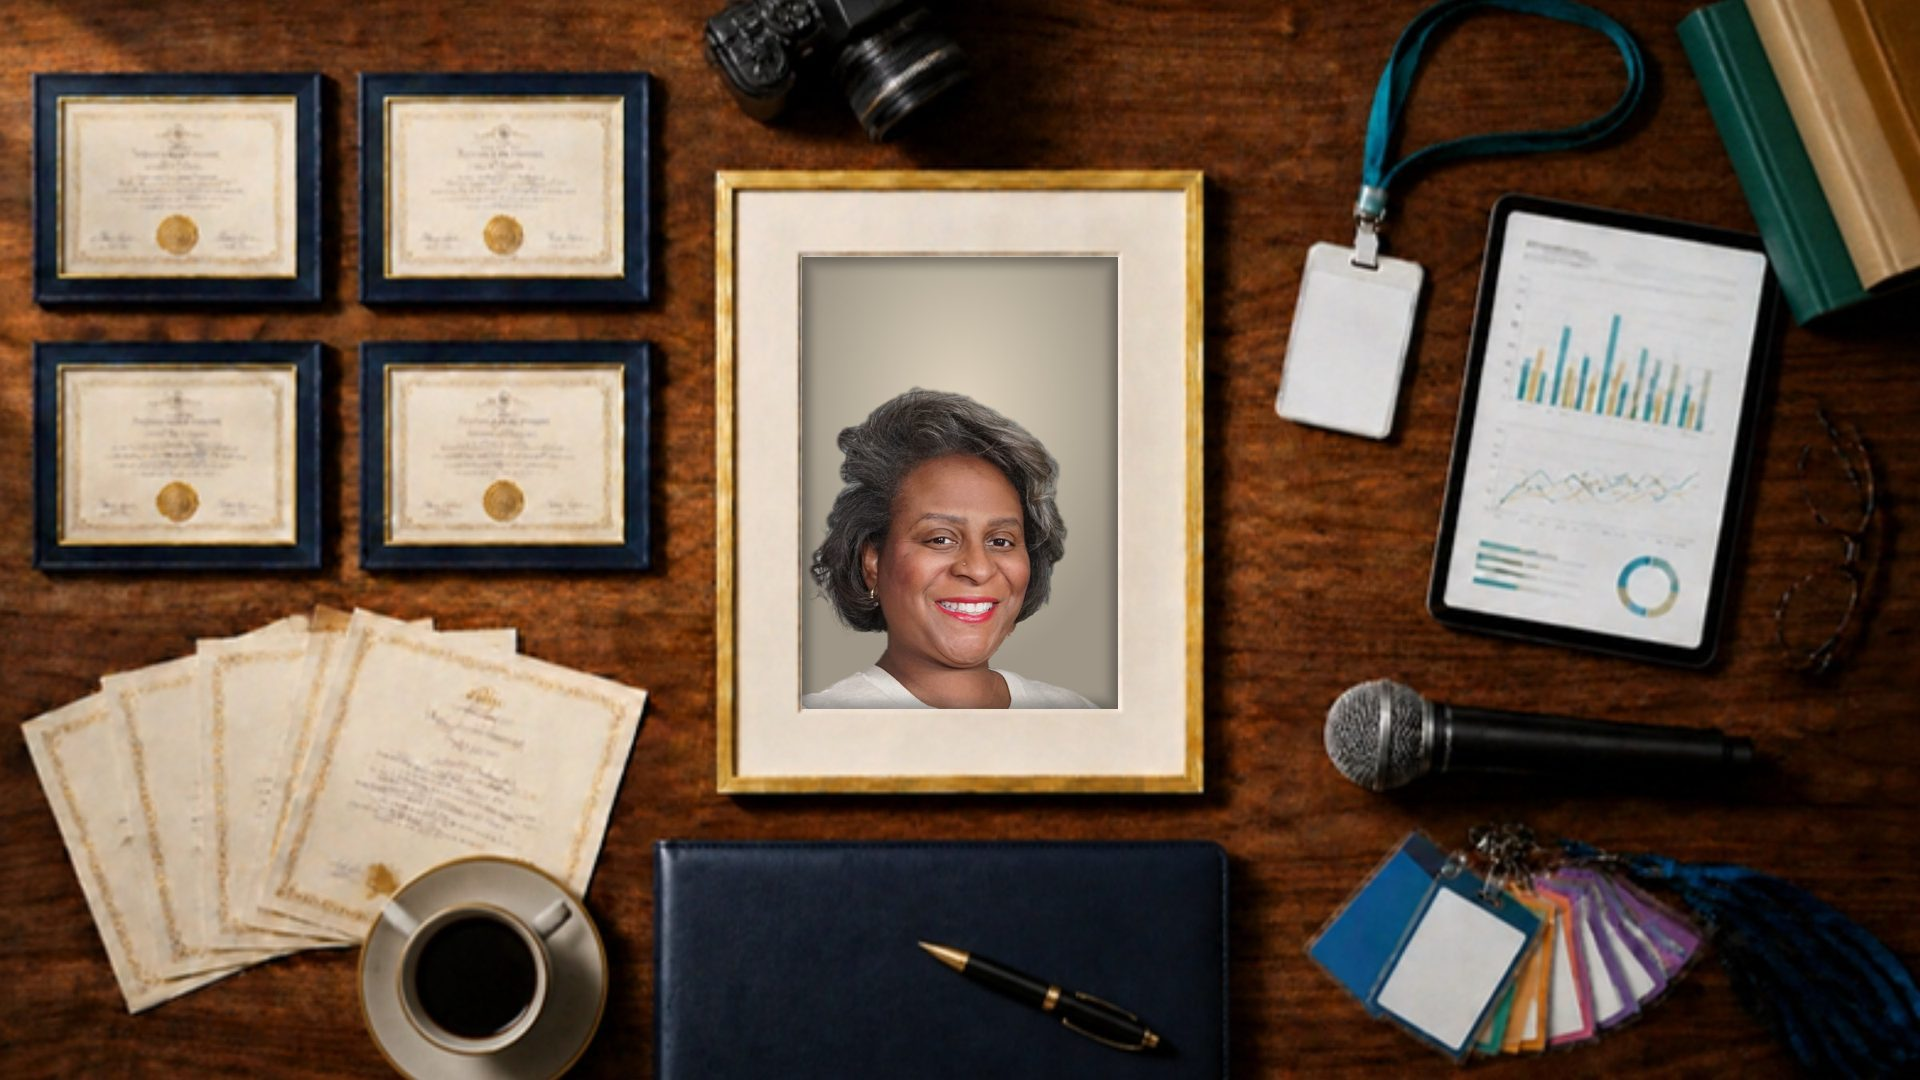
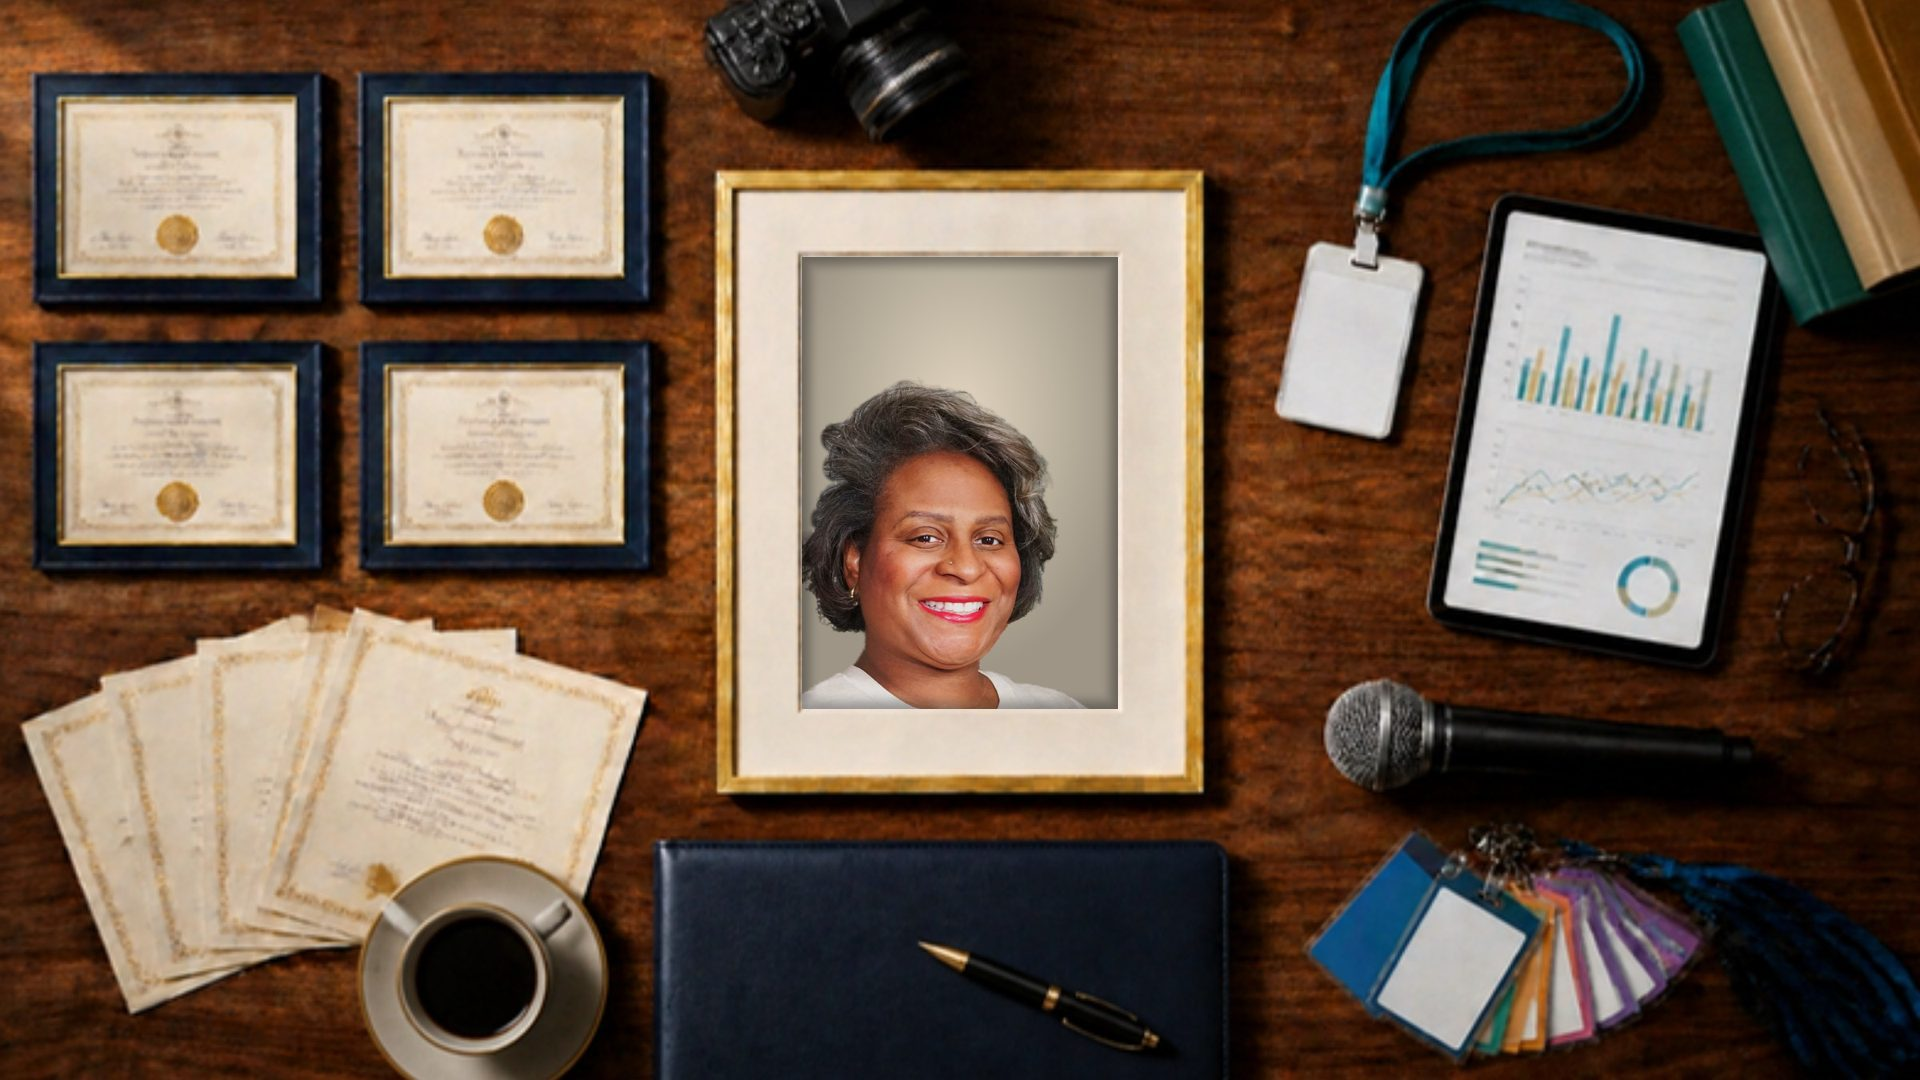
TJ's retouched portrait and an About page showroom
- Big-smile portrait replaced with TJ's 11/22 retouch everywhere it
  appears: homepage hero frame, desk photos, and the About page
- About header becomes a showroom: light lines draw in, a spotlight and
  fog come up, and she stands on a glowing platform; the room relights
  for each role with its own facts, cycling on its own
- About page arch now uses DSC00378 so the same photo does not repeat

Claude-Session: https://claude.ai/code/session_01LNYcPZJEaV3DAgXppiUXw4

Changed region(s): [[0.4062, 0.3361, 0.5625, 0.6722]]

diff --git a/assets/showroom.css b/assets/showroom.css
@@ -1,0 +1,59 @@
+/* About page showroom: she stands on a lit platform in a dark room; each role relights the room */
+.showroom { --glow: 47, 160, 156; position: relative; background: radial-gradient(120% 90% at 70% 40%, #1B2140 0%, #0E1124 55%, #080A16 100%); color: #EDE6D8; overflow: hidden; padding: clamp(28px, 4vw, 56px) 0 clamp(36px, 5vw, 64px); transition: --glow 1s; }
+.showroom[data-role="1"] { --glow: 214, 177, 112; }
+.showroom[data-role="2"] { --glow: 160, 190, 235; }
+.showroom[data-role="3"] { --glow: 214, 132, 140; }
+.sr-grid { display: grid; grid-template-columns: minmax(300px, 430px) 1fr; gap: clamp(24px, 4vw, 64px); align-items: center; }
+.sr-copy { position: relative; z-index: 2; }
+.showroom .script-eyebrow { color: var(--gold-soft, #CDB083); }
+.sr-title { font-family: var(--serif); font-weight: 600; font-size: clamp(44px, 5.6vw, 84px); line-height: .95; color: #FBF7EF; margin: 0; letter-spacing: -.01em; }
+.sr-lead { font-family: var(--serif); font-size: clamp(19px, 1.6vw, 23px); line-height: 1.36; color: #D9D1C2; margin: 18px 0 26px; max-width: 32ch; }
+.sr-tabs { display: flex; flex-wrap: wrap; gap: 6px; border-bottom: 1px solid rgba(237, 230, 216, .16); }
+.sr-tabs button { position: relative; background: none; border: 0; color: #A9A396; font: 600 15px/1 var(--sans, 'Source Sans 3', sans-serif); letter-spacing: .04em; padding: 12px 12px 14px; min-height: 44px; cursor: pointer; transition: color .3s; }
+.sr-tabs button::after { content: ""; position: absolute; left: 12px; right: 12px; bottom: -1px; height: 2px; background: rgb(var(--glow)); transform: scaleX(0); transition: transform .5s cubic-bezier(.2, .8, .2, 1); }
+.sr-tabs button[aria-selected="true"] { color: #FBF7EF; }
+.sr-tabs button[aria-selected="true"]::after { transform: scaleX(1); }
+.sr-tabs button:hover { color: #FBF7EF; }
+.sr-tabs button .sr-timer { position: absolute; left: 12px; bottom: -1px; height: 2px; width: 0; background: rgba(var(--glow), .45); }
+.sr-specs { position: relative; min-height: 220px; margin-top: 22px; }
+.sr-spec { position: absolute; inset: 0 0 auto 0; opacity: 0; transform: translateY(12px); transition: opacity .5s, transform .5s; pointer-events: none; }
+.sr-spec.is-on { opacity: 1; transform: none; pointer-events: auto; }
+.sr-name { font-family: var(--serif); font-style: italic; font-size: 22px; color: rgb(var(--glow)); margin: 0 0 12px; }
+.sr-spec dl { display: grid; grid-template-columns: repeat(3, 1fr); gap: 16px; margin: 0; }
+.sr-spec dl div { border-left: 1px solid rgba(var(--glow), .5); padding-left: 12px; }
+.sr-spec dt { font-family: var(--serif); font-weight: 600; font-size: clamp(26px, 2.4vw, 34px); line-height: 1; color: #FBF7EF; }
+.sr-spec dd { margin: 6px 0 0; font-size: 14.5px; line-height: 1.35; color: #BDB6A8; }
+.sr-go { display: inline-flex; align-items: center; gap: 8px; margin-top: 22px; min-height: 44px; color: #FBF7EF; font-weight: 600; text-decoration: none; border-bottom: 1px solid rgb(var(--glow)); }
+.sr-go:hover { color: rgb(var(--glow)); }
+
+/* The stage */
+.sr-stage { position: relative; aspect-ratio: 5 / 4; width: 112%; max-height: 80vh; justify-self: center; margin-right: -6%; }
+.sr-lines { position: absolute; inset: 0; width: 100%; height: 100%; overflow: visible; }
+.sr-lines path { fill: none; stroke: rgba(var(--glow), .9); stroke-width: 1.4; vector-effect: non-scaling-stroke; filter: drop-shadow(0 0 6px rgba(var(--glow), .9)); stroke-dasharray: 1400; stroke-dashoffset: 1400; transition: stroke .8s; }
+.showroom.lit .sr-lines path { animation: sr-draw 2.4s cubic-bezier(.6, .05, .3, 1) forwards; }
+.showroom.lit .sr-lines path:nth-child(2) { animation-delay: .25s; } .showroom.lit .sr-lines path:nth-child(3), .showroom.lit .sr-lines path:nth-child(4) { animation-delay: .6s; } .showroom.lit .sr-lines path:nth-child(5) { animation-delay: .8s; } .showroom.lit .sr-lines path:nth-child(6) { animation-delay: .4s; }
+@keyframes sr-draw { to { stroke-dashoffset: 0; } }
+.sr-cone { position: absolute; left: 50%; top: 4%; width: 70%; height: 92%; transform: translateX(-50%); background: conic-gradient(from 160deg at 50% 0%, transparent 0deg, rgba(var(--glow), .16) 14deg, rgba(255, 255, 255, .1) 20deg, rgba(var(--glow), .16) 26deg, transparent 40deg); filter: blur(10px); opacity: 0; transition: opacity 1.4s .9s; mix-blend-mode: screen; }
+.showroom.lit .sr-cone { opacity: 1; }
+.sr-ring { position: absolute; left: 50%; bottom: 13%; width: 58%; height: 11%; transform: translateX(-50%); border-radius: 50%; background: radial-gradient(closest-side, rgba(var(--glow), .35), rgba(var(--glow), .08) 70%, transparent); box-shadow: 0 0 0 2px rgba(var(--glow), .75), 0 0 40px 6px rgba(var(--glow), .45), inset 0 0 30px rgba(var(--glow), .5); opacity: 0; transition: opacity 1s 1.2s, box-shadow .8s; }
+.showroom.lit .sr-ring { opacity: 1; }
+.sr-person { position: absolute; left: 50%; bottom: 15%; width: 54%; transform: translate(-50%, 18px); filter: brightness(.25) drop-shadow(0 0 0 rgba(0, 0, 0, 0)); opacity: 0; transition: transform 1.6s cubic-bezier(.2, .8, .2, 1) .9s, opacity 1.2s .9s, filter 1.4s 1s; z-index: 2; }
+.showroom.lit .sr-person { opacity: 1; transform: translate(-50%, 0); filter: brightness(1) drop-shadow(-3px -2px 10px rgba(var(--glow), .55)) drop-shadow(4px 0 14px rgba(var(--glow), .35)); }
+.sr-reflect { position: absolute; left: 50%; bottom: 18.5%; width: 54%; transform: translate(-50%, 100%) scaleY(-1); transform-origin: 50% 0; opacity: 0; filter: blur(3px) brightness(.6); -webkit-mask-image: linear-gradient(to top, rgba(0, 0, 0, .35), transparent 30%); mask-image: linear-gradient(to top, rgba(0, 0, 0, .35), transparent 30%); transition: opacity 1.2s 1.4s; }
+.showroom.lit .sr-reflect { opacity: .5; }
+.sr-fog { position: absolute; left: -10%; right: -10%; bottom: 8%; height: 26%; background: radial-gradient(50% 60% at 50% 60%, rgba(var(--glow), .18), transparent 70%), radial-gradient(40% 50% at 25% 70%, rgba(230, 230, 240, .12), transparent 70%), radial-gradient(40% 50% at 78% 65%, rgba(230, 230, 240, .1), transparent 70%); filter: blur(18px); z-index: 3; pointer-events: none; animation: sr-drift 14s ease-in-out infinite alternate; }
+.sr-fog.f2 { bottom: 2%; animation-duration: 19s; animation-direction: alternate-reverse; opacity: .8; }
+@keyframes sr-drift { from { transform: translateX(-4%); } to { transform: translateX(4%); } }
+.sr-floorfog { display: none; }
+
+@media (max-width: 900px) {
+  .sr-grid { grid-template-columns: 1fr; }
+  .sr-stage { order: -1; max-height: 52vh; aspect-ratio: 4 / 3.6; width: 100%; margin-right: 0; }
+  .sr-spec dl { grid-template-columns: 1fr 1fr 1fr; gap: 10px; }
+  .sr-specs { min-height: 250px; }
+}
+@media (prefers-reduced-motion: reduce) {
+  .showroom .sr-lines path { stroke-dashoffset: 0; animation: none !important; }
+  .showroom .sr-cone, .showroom .sr-ring, .showroom .sr-person, .showroom .sr-reflect { transition: none; }
+  .sr-fog { animation: none; }
+}

diff --git a/about.html b/about.html
@@ -23,6 +23,7 @@
 <link rel="stylesheet" href="assets/craft.css">
 <link rel="stylesheet" href="assets/studio3d.css">
 <link rel="stylesheet" href="assets/finish.css">
+<link rel="stylesheet" href="assets/showroom.css">
 <script type="application/ld+json">
 {
  "@context": "https://schema.org",
@@ -180,15 +181,55 @@
   </div>
 </header>
 <main id="main">
-<section class="p-hero">
-  <div class="wrap p-hero-grid">
-    <div>
+<section class="showroom" data-showroom aria-label="Dr. Alimayu, four ways to work with her">
+  <div class="wrap sr-grid">
+    <div class="sr-copy">
       <p class="script-eyebrow">Formerly Allison Stephens</p>
-      <h1 class="deboss">About Dr. Alimayu</h1>
-      <p class="lead-serif">The futures of children and families are decided in budgets, boardrooms, and evidence reviews. She has worked in all three for more than twenty-five years.</p>
-      
+      <h1 class="sr-title">About Dr. Alimayu</h1>
+      <p class="sr-lead">The futures of children and families are decided in budgets, boardrooms, and evidence reviews. She has worked in all three for more than twenty-five years.</p>
+      <div class="sr-tabs" role="tablist" aria-label="Choose a role">
+        <button type="button" role="tab" data-role="0" aria-selected="true">Speaker</button>
+        <button type="button" role="tab" data-role="1" aria-selected="false">Board director</button>
+        <button type="button" role="tab" data-role="2" aria-selected="false">Researcher</button>
+        <button type="button" role="tab" data-role="3" aria-selected="false">Founder</button>
+      </div>
+      <div class="sr-specs" role="tabpanel" aria-live="polite">
+        <div class="sr-spec is-on" data-spec="0">
+          <p class="sr-name">The speaker</p>
+          <dl><div><dt>200+</dt><dd>Engagements</dd></div><div><dt>TEDx</dt><dd>Carlow, Ireland</dd></div><div><dt>Live TV</dt><dd>CNN and Fox News</dd></div></dl>
+          <a class="sr-go" href="speaking.html">Book a talk <span aria-hidden="true">&rarr;</span></a>
+        </div>
+        <div class="sr-spec" data-spec="1">
+          <p class="sr-name">The board director</p>
+          <dl><div><dt>15</dt><dd>Boards, commissions, and councils since 2010</dd></div><div><dt>$25M</dt><dd>Reserves directed as audit chair</dd></div><div><dt>68%</dt><dd>Fewer open audit exceptions</dd></div></dl>
+          <a class="sr-go" href="board-seats.html">See board service <span aria-hidden="true">&rarr;</span></a>
+        </div>
+        <div class="sr-spec" data-spec="2">
+          <p class="sr-name">The researcher</p>
+          <dl><div><dt>PhD</dt><dd>Biomedical informatics, Rutgers</dd></div><div><dt>Fulbright</dt><dd>US Scholar</dd></div><div><dt>MEDCAC</dt><dd>Voting member, Medicare</dd></div></dl>
+          <a class="sr-go" href="editorial.html">Read the work <span aria-hidden="true">&rarr;</span></a>
+        </div>
+        <div class="sr-spec" data-spec="3">
+          <p class="sr-name">The founder</p>
+          <dl><div><dt>Studio</dt><dd>Alimayu Studio</dd></div><div><dt>Lab</dt><dd>Data Center Health Lab</dd></div><div><dt>Club</dt><dd>The Postmoon Club</dd></div></dl>
+          <a class="sr-go" href="initiatives.html">See the initiatives <span aria-hidden="true">&rarr;</span></a>
+        </div>
+      </div>
     </div>
-    
+    <div class="sr-stage" aria-hidden="true">
+      <svg class="sr-lines" viewBox="0 0 800 600" preserveAspectRatio="none">
+        <path d="M-20 120 L260 40 L540 40 L820 120"/><path d="M-20 170 L230 80 L570 80 L820 170"/>
+        <path d="M260 40 L230 80"/><path d="M540 40 L570 80"/><path d="M400 0 L400 60"/>
+        <path d="M-20 600 L250 440 L550 440 L820 600"/><path d="M250 440 L250 400"/><path d="M550 440 L550 400"/>
+        <path d="M60 0 L180 0"/><path d="M620 0 L740 0"/>
+      </svg>
+      <div class="sr-cone"></div>
+      <div class="sr-fog f1"></div><div class="sr-fog f2"></div>
+      <div class="sr-ring"></div>
+      <img class="sr-person" src="assets/home/portrait-372-stage.png" alt="">
+      <img class="sr-reflect" src="assets/home/portrait-372-stage.png" alt="">
+      <div class="sr-floorfog"></div>
+    </div>
   </div>
 </section>
 
@@ -198,7 +239,7 @@
       <div class="a-window-edge" aria-hidden="true"></div>
       <div class="a-window portrait-window" style="aspect-ratio:400/520">
         <div class="pw-glow" aria-hidden="true"></div><div class="pw-rays" aria-hidden="true"></div>
-        <img class="pw-photo" style="opacity:1" src="assets/home/portrait-372.png" alt="Dr. Allison Alimayu">
+        <img class="pw-photo" style="opacity:1" src="assets/home/portrait-378.png" alt="Dr. Allison Alimayu">
         <div class="pw-sheen" aria-hidden="true"></div>
       </div>
       <img class="a-stamp" src="alimayu-seal.png" alt="">
@@ -305,5 +346,6 @@
 <script src="assets/craft.js"></script>
 <script src="assets/studio3d.js"></script>
 <script src="assets/finish.js"></script>
+<script src="assets/showroom.js"></script>
 </body>
 </html>

diff --git a/assets/showroom.js b/assets/showroom.js
@@ -1,0 +1,56 @@
+/* About page showroom: lights come up when it is on screen, then the room cycles through her four roles.
+   Tabs switch roles directly; hovering or focusing the panel pauses the cycle. */
+(function () {
+  var room = document.querySelector('[data-showroom]');
+  if (!room) return;
+  var tabs = room.querySelectorAll('[data-role]'), specs = room.querySelectorAll('[data-spec]');
+  var reduce = matchMedia('(prefers-reduced-motion: reduce)').matches;
+  var cur = 0, timer = null, paused = false, EVERY = 5200;
+  tabs.forEach(function (t) { var s = document.createElement('span'); s.className = 'sr-timer'; t.appendChild(s); });
+
+  function show(i) {
+    cur = i;
+    room.setAttribute('data-role', i);
+    tabs.forEach(function (t, j) {
+      t.setAttribute('aria-selected', j === i ? 'true' : 'false');
+      t.tabIndex = j === i ? 0 : -1;
+      var bar = t.querySelector('.sr-timer'); bar.style.transition = 'none'; bar.style.width = '0';
+    });
+    specs.forEach(function (s, j) { s.classList.toggle('is-on', j === i); });
+    schedule();
+  }
+  function schedule() {
+    clearTimeout(timer);
+    if (reduce || paused) return;
+    var bar = tabs[cur].querySelector('.sr-timer');
+    requestAnimationFrame(function () { requestAnimationFrame(function () {
+      bar.style.transition = 'width ' + EVERY + 'ms linear'; bar.style.width = 'calc(100% - 24px)';
+    }); });
+    timer = setTimeout(function () { show((cur + 1) % tabs.length); }, EVERY);
+  }
+  tabs.forEach(function (t, i) {
+    t.addEventListener('click', function () { show(i); });
+    t.addEventListener('keydown', function (e) {
+      if (e.key === 'ArrowRight' || e.key === 'ArrowLeft') {
+        var n = (cur + (e.key === 'ArrowRight' ? 1 : tabs.length - 1)) % tabs.length;
+        show(n); tabs[n].focus(); e.preventDefault();
+      }
+    });
+  });
+  var copy = room.querySelector('.sr-copy');
+  function pause(on) { paused = on; if (on) { clearTimeout(timer); tabs.forEach(function (t) { var b = t.querySelector('.sr-timer'); b.style.transition = 'none'; b.style.width = '0'; }); } else schedule(); }
+  copy.addEventListener('mouseenter', function () { pause(true); });
+  copy.addEventListener('mouseleave', function () { pause(false); });
+  copy.addEventListener('focusin', function () { pause(true); });
+  copy.addEventListener('focusout', function () { pause(false); });
+
+  function start() { room.classList.add('lit'); show(0); }
+  if (reduce || !('IntersectionObserver' in window)) { room.classList.add('lit'); show(0); return; }
+  var io = new IntersectionObserver(function (es) {
+    es.forEach(function (e) {
+      if (e.isIntersecting && !room.classList.contains('lit')) { setTimeout(start, 150); }
+      if (!e.isIntersecting) { clearTimeout(timer); } else if (room.classList.contains('lit')) schedule();
+    });
+  }, { threshold: .25 });
+  io.observe(room);
+})();
